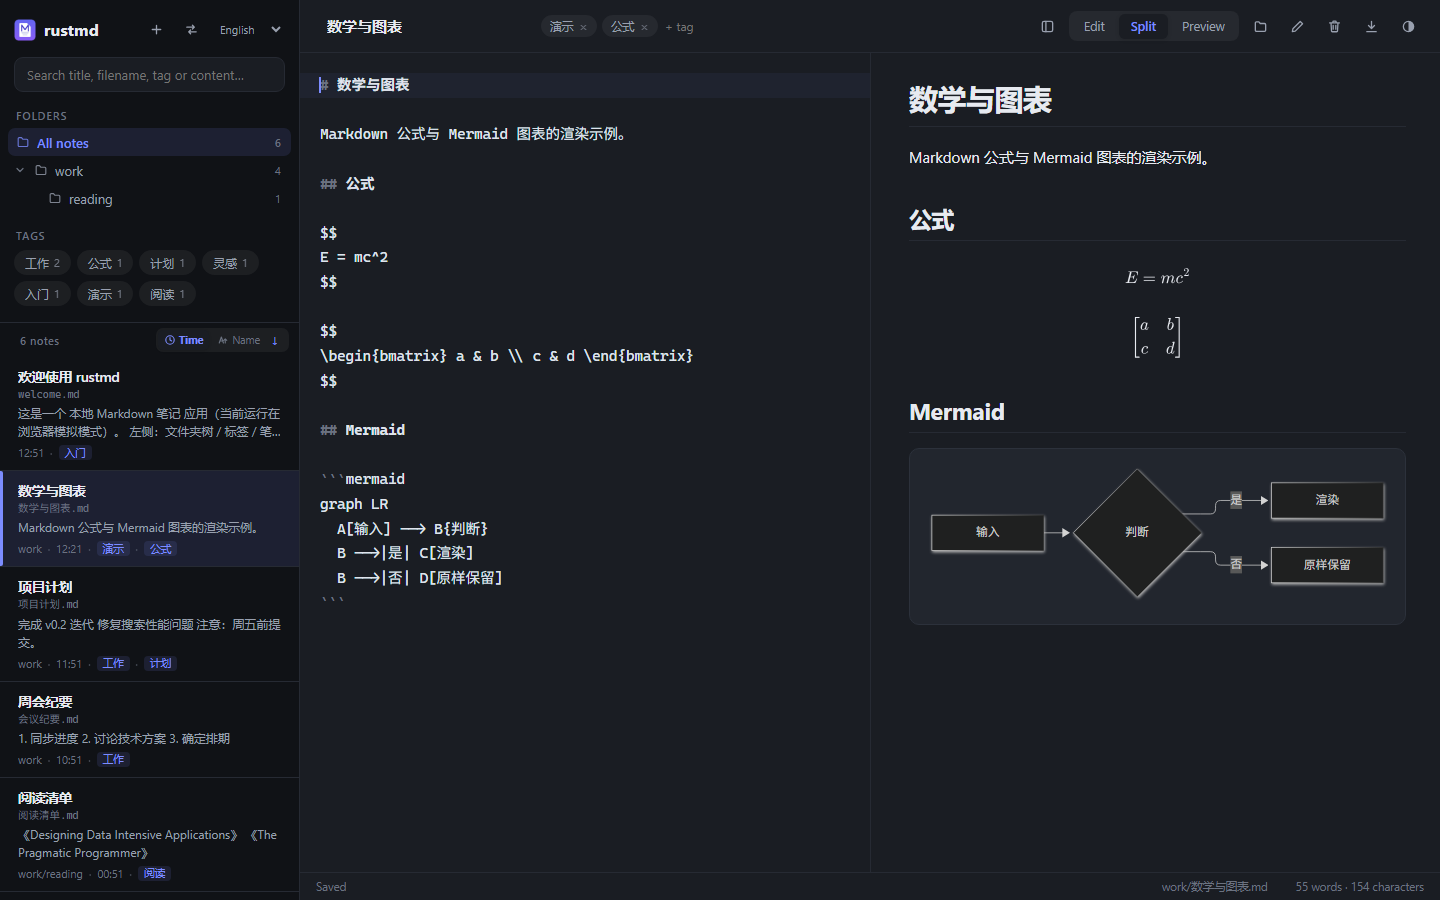
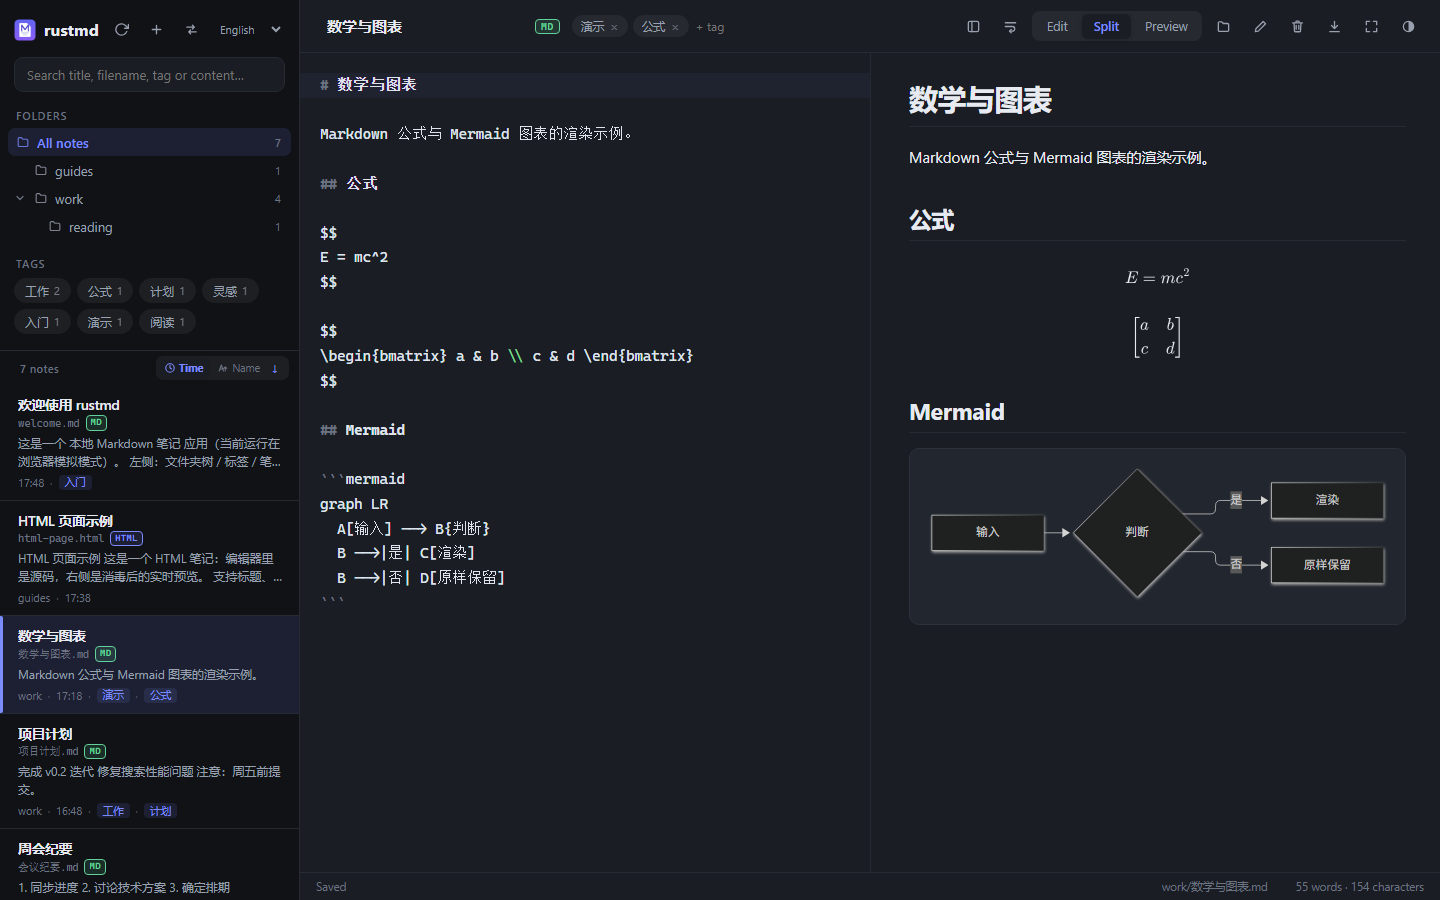
docs: refresh README screenshots for MD/HTML badges and document capture workflow

diff --git a/AGENTS.md b/AGENTS.md
@@ -26,6 +26,7 @@ this file is the developer/agent contract.
 | Release notes preflight | `node scripts/release-notes.mjs v1.6.1 >/dev/null` |
 | Windows sign + portable zip | `powershell -File scripts/sign-win.ps1` then `scripts/build-win-zip.ps1` |
 | Regenerate app icons (PNG/ICO/ICNS) | `npm run icons` |
+| Regenerate README screenshots | `node scripts/capture-screenshots.mjs` (needs `npm run dev` + headless Edge with CDP on :9333; see the script header) |
 
 - `cargo`/`rustup` are often not on this shell's PATH. Use
   `node scripts/cargo.mjs …` (it probes `$CARGO`, `~/.cargo/bin/cargo`, PATH)
@@ -342,14 +343,23 @@ If a new Tauri *plugin* is used:
   to avoid collisions. `DISPLAY_MATH_RE` must keep its `g` flag (the
   multi-row matrix regression).
 - **Selftest**: dev-only; requires examples/ and network for the remote image
-  checks. HTML entries use the built-in WebView (native preview iframe +
-  hidden export window), check `--require-html`, and assert iframe readiness,
-  local-JS execution, PNG/PDF magic/dimensions and local CSS/JS/image inlining.
-  Markdown and HTML PDF entries assert the vector path really produced text
-  (`/Font` in the PDF, not just image slices) on every desktop platform. No
-  external browser is installed or required. Clear the output dir first; the
-  checker rejects reports older than 24h. It restores the user’s notes root
-  afterwards and exits with 0/1.
+  checks. Remote images are best-effort: a fetch failure is recorded in
+  `report.warnings` (and the remaining remote URLs are skipped for the run),
+  never in `report.errors`, so an unreachable image host cannot block a
+  release; local images stay strict. HTML entries use the built-in WebView
+  (native preview iframe + hidden export window), check `--require-html`, and
+  assert iframe readiness, local-JS execution, PNG/PDF magic/dimensions and
+  local CSS/JS/image inlining. Markdown and HTML PDF entries assert the vector
+  path really produced text (`/Font` in the PDF, not just image slices) on
+  every desktop platform. No external browser is installed or required. Clear
+  the output dir first; the checker rejects reports older than 24h and prints
+  warnings. It restores the user’s notes root afterwards and exits with 0/1.
+- **README screenshots** (`docs/screenshots/*.png`) are generated from the
+  browser mock vault, not the real examples folder: run `npm run dev`, start
+  Edge headless with `--remote-debugging-port=9333` on
+  `http://127.0.0.1:5173/`, then `node scripts/capture-screenshots.mjs`. The
+  script captures 1440×900 zh/en light/dark plus the 300 px sidebar. Update
+  it when the UI layout or the mock notes change so the images do not drift.
 - **Windows signing** is self-signed (integrity only, SmartScreen still
   warns). **macOS** is ad-hoc (Gatekeeper still asks for approval). See
   `docs/RELEASING.md`.
@@ -367,5 +377,6 @@ If a new Tauri *plugin* is used:
 - `docs/RELEASING.md` — versioning, signing, three-platform release.
 - `docs/SECURITY.md` — threat model and residual risks.
 - `CHANGELOG.md` — history; `AUDIT_REPORT.md` — current audit status.
+- `docs/screenshots/` — README screenshots (regenerate with `scripts/capture-screenshots.mjs`).
 - `docs/GITHUB_PROJECT_COPY.md` — About description, topics and discoverability copy.
 - `LINUX_BUILD.md` — Linux dependency/build/packaging guide and headless smoke test.

diff --git a/README.en.md b/README.en.md
@@ -17,15 +17,15 @@ Current version **1.6.1** · GPL-3.0-or-later · [Changelog](CHANGELOG.md) · [L
 
 ## Screenshots
 
-Folder tree, filename cards, sort direction, MathJax math and Mermaid diagrams:
+Folder tree, filename cards, sort direction, **MD / HTML format badges**, MathJax math and Mermaid diagrams:
 
-<img src="docs/screenshots/overview.en.png" alt="rustmd English interface with folder tree, filename cards, editor and live preview" width="880">
+<img src="docs/screenshots/overview.en.png" alt="rustmd English interface with folder tree, MD/HTML format badges, editor and live preview (MathJax math + Mermaid diagram)" width="880">
 
 Dark theme and sidebar details:
 
-<img src="docs/screenshots/dark.en.png" alt="rustmd English dark theme with MathJax and Mermaid preview" width="880">
+<img src="docs/screenshots/dark.en.png" alt="rustmd English dark theme with MD/HTML format badges, MathJax math and Mermaid preview" width="880">
 
-<img src="docs/screenshots/sidebar.en.png" alt="rustmd English sidebar with folders, sort buttons, filenames and tags" width="300">
+<img src="docs/screenshots/sidebar.en.png" alt="rustmd English sidebar with folders, sort buttons, MD/HTML format badges, filenames and tags" width="300">
 
 ## Multilingual UI
 
@@ -42,7 +42,7 @@ If you want a Markdown tool that keeps your notes as **plain files** instead of 
 - **Plain-text storage** — a note is a `.md` or `.html` file, a folder is a folder. Use Git, Syncthing, iCloud, OneDrive or any sync tool.
 - **Offline by default** — editing, search, preview and export work without a network; only remote images and update checks need one.
 - **Lightweight and cross-platform** — Rust + Tauri 2 on Windows, macOS and Linux. Windows ships a portable zip.
-- **More than an editor** — folder tree, full-text search, front matter tags, Markdown and HTML notes, MathJax, Mermaid, syntax highlighting, HTML/PNG/PDF export.
+- **More than an editor** — folder tree, full-text search, front matter tags, MD/HTML format badges, Markdown and HTML notes, MathJax, Mermaid, syntax highlighting, HTML/PNG/PDF export.
 - **Security-minded** — sanitized Markdown HTML, isolated sandboxed/hidden-WebView rendering for HTML notes, CSP, path containment, SSRF protection, native save dialog for exports.
 - **Easy to migrate to** — open an existing Obsidian/Typora/VS Code Markdown or HTML folder; unknown front matter fields (`title:`, `date:`, …) are preserved on save.
 

diff --git a/README.md b/README.md
@@ -19,15 +19,15 @@
 
 ## 截图
 
-主界面：文件夹树、文件名卡片、排序方向、MathJax 公式与 Mermaid 图表。
+主界面：文件夹树、文件名卡片、排序方向、**MD / HTML 格式徽标**、MathJax 公式与 Mermaid 图表。
 
-<img src="docs/screenshots/overview.png" alt="rustmd 主界面：左侧文件夹树与文件名卡片，右侧 CodeMirror 编辑器和实时预览" width="880">
+<img src="docs/screenshots/overview.png" alt="rustmd 主界面：左侧文件夹树与带 MD/HTML 格式徽标的文件名卡片，右侧 CodeMirror 编辑器和实时预览（MathJax 公式 + Mermaid 图表）" width="880">
 
 深色主题与侧栏细节：
 
-<img src="docs/screenshots/dark.png" alt="rustmd 深色主题：MathJax 公式、Mermaid 图表和实时预览" width="880">
+<img src="docs/screenshots/dark.png" alt="rustmd 深色主题：MD/HTML 格式徽标、MathJax 公式、Mermaid 图表和实时预览" width="880">
 
-<img src="docs/screenshots/sidebar.png" alt="rustmd 侧栏：全部/文件夹树、排序按钮、文件名、标签和搜索" width="300">
+<img src="docs/screenshots/sidebar.png" alt="rustmd 侧栏：全部/文件夹树、排序按钮、带 MD/HTML 格式徽标的文件名、标签和搜索" width="300">
 
 ## 多语言界面
 
@@ -44,7 +44,7 @@
 - **纯文件存储**：笔记就是 `.md` 或 `.html`，文件夹就是文件夹；可以用 Git、Syncthing、iCloud、OneDrive 或任何同步工具管理。
 - **本地优先**：核心编辑、预览、搜索、导出全部离线可用；拉取远程图片、加载 HTML 报告里的 CDN 脚本等场景才需要网络。
 - **轻量跨平台**：Rust + Tauri 2，Windows / macOS / Linux 三端；Windows 提供解压即用的绿色 zip。
-- **不只是编辑器**：文件夹树、全文搜索、front matter 标签、MathJax、Mermaid、代码高亮、HTML / PNG / PDF 导出。
+- **不只是编辑器**：文件夹树、全文搜索、front matter 标签、**MD / HTML 格式徽标**、MathJax、Mermaid、代码高亮、HTML / PNG / PDF 导出。
 - **安全边界认真做**：Markdown HTML 消毒、HTML 笔记在 sandbox iframe / 隐藏 WebView 中隔离渲染、CSP、路径封闭、SSRF 防护、导出走原生保存对话框。
 - **适合从 Obsidian / Typora / VS Code 迁移**：直接打开已有 `.md` / `.html` 文件夹即可；front matter 中的 `title:`、`date:` 等字段保存时原样保留。
 
